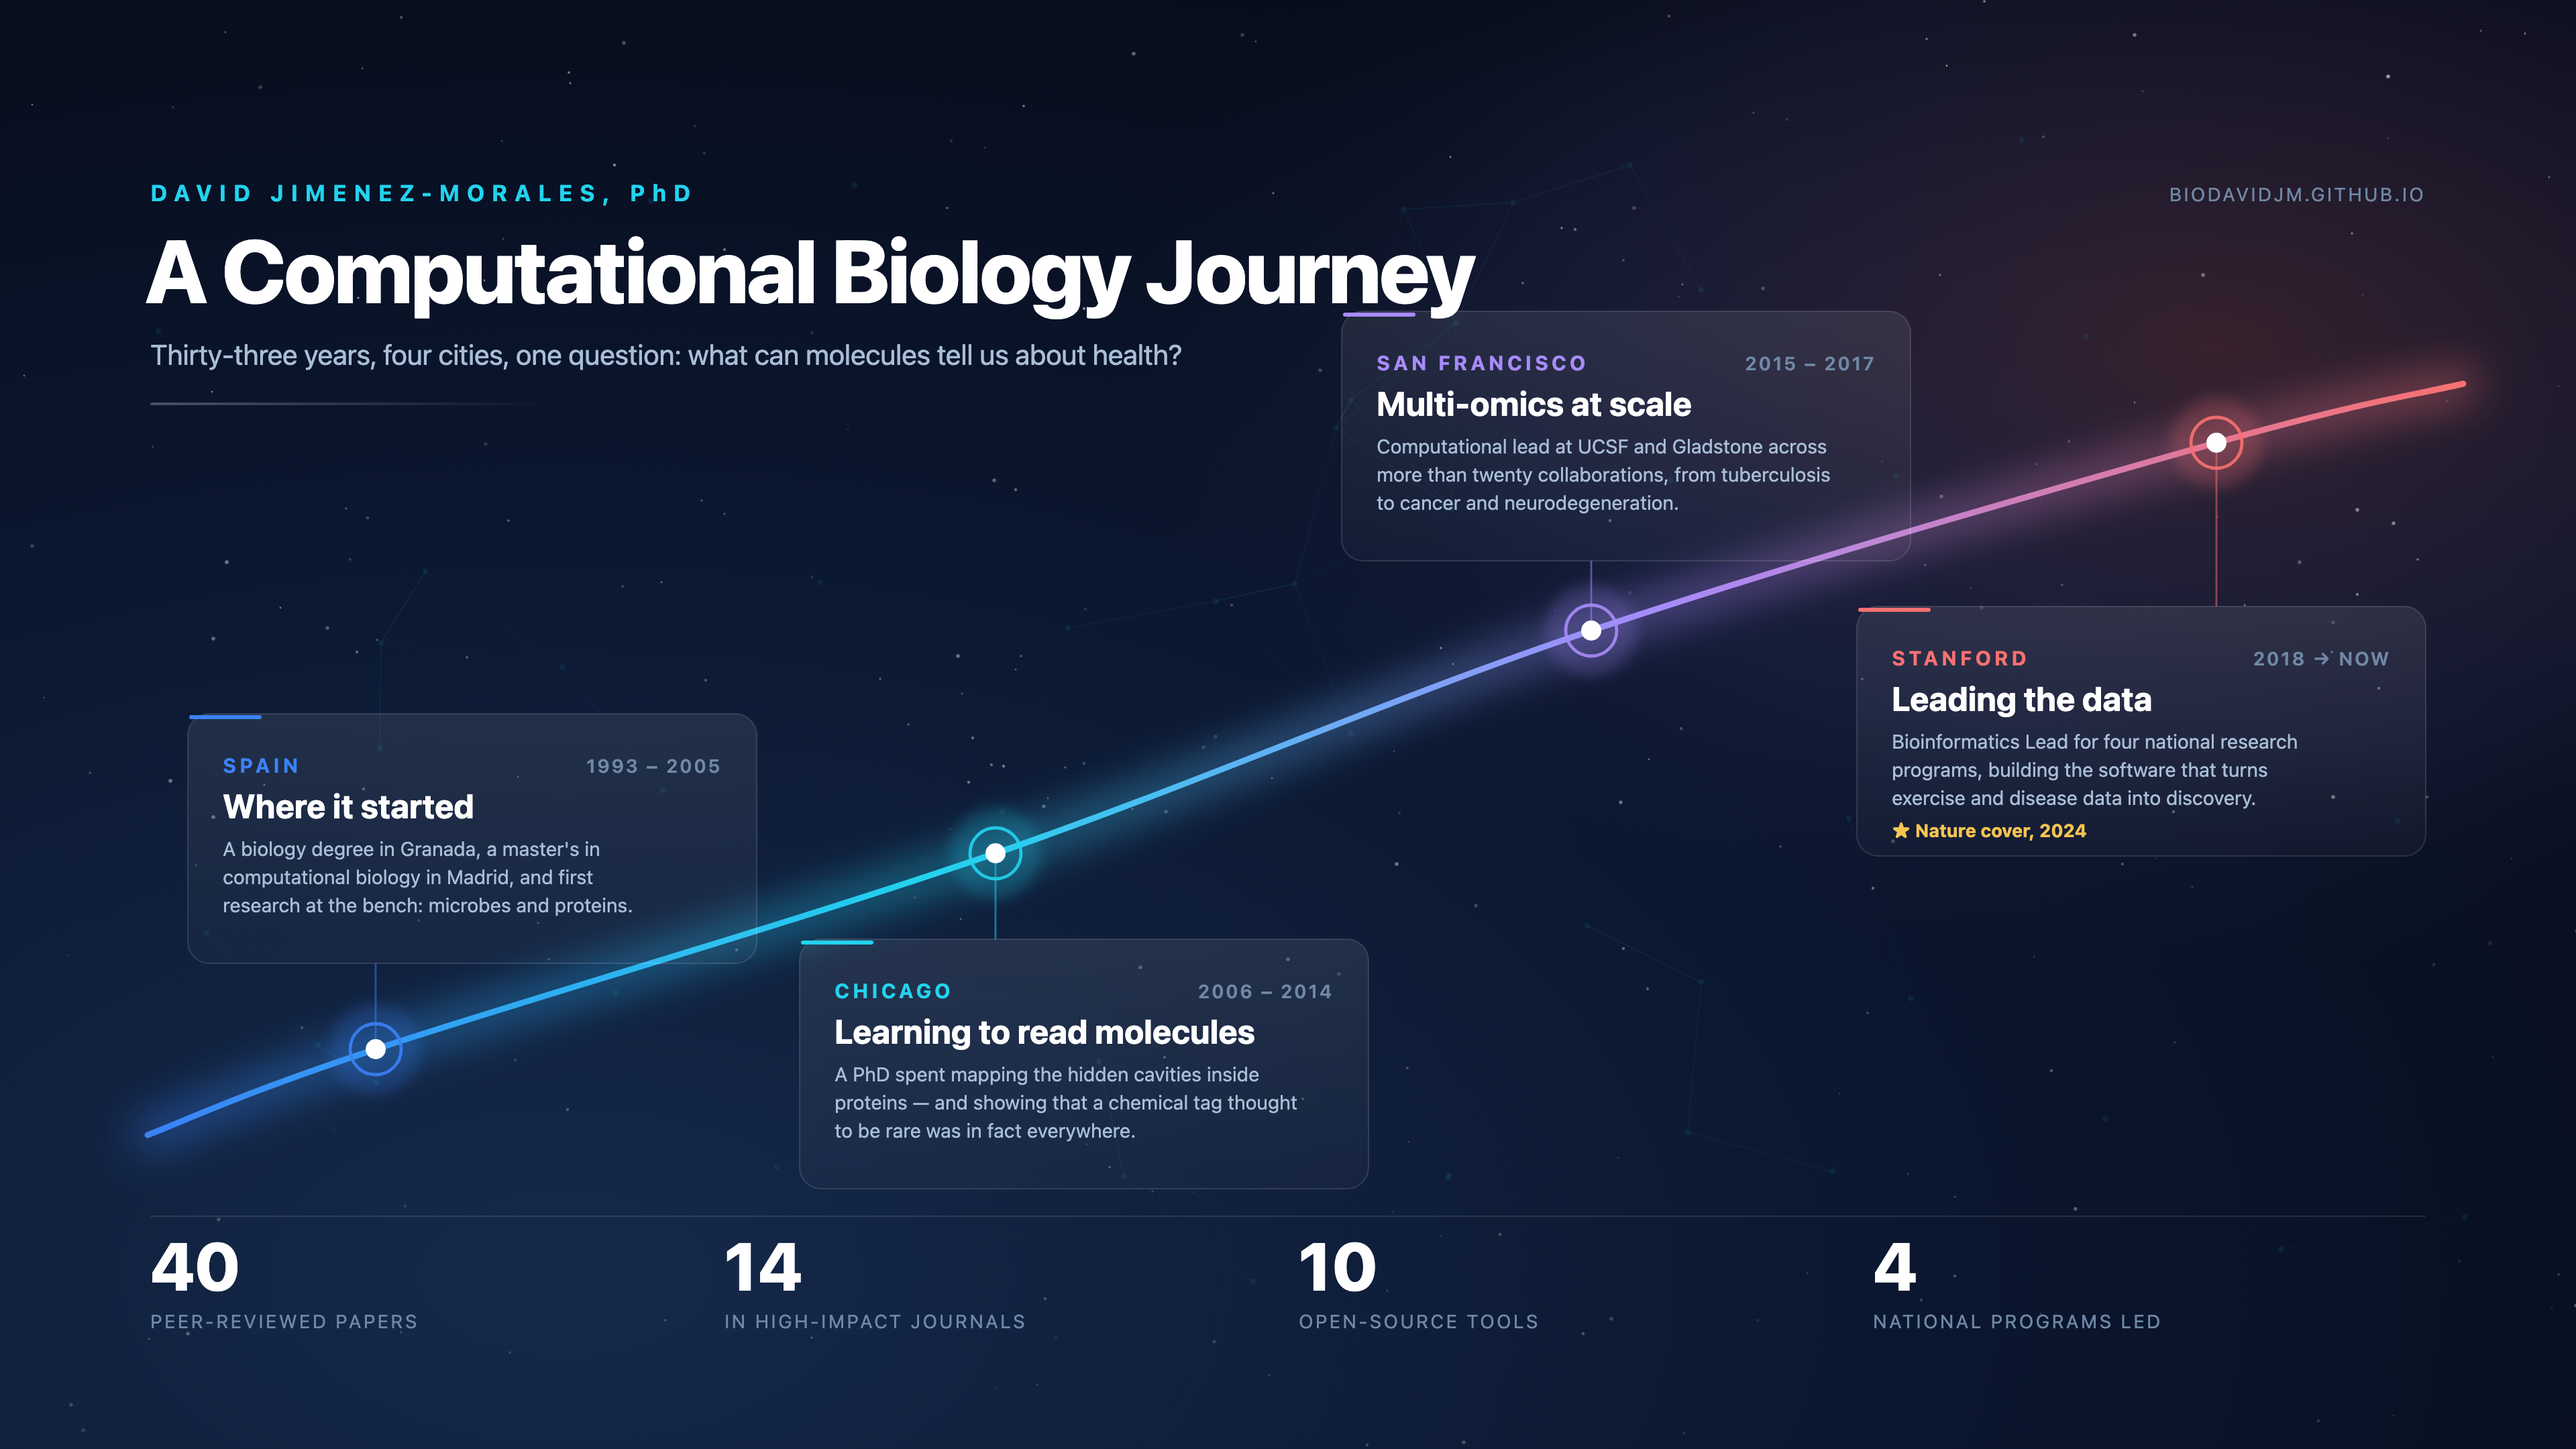
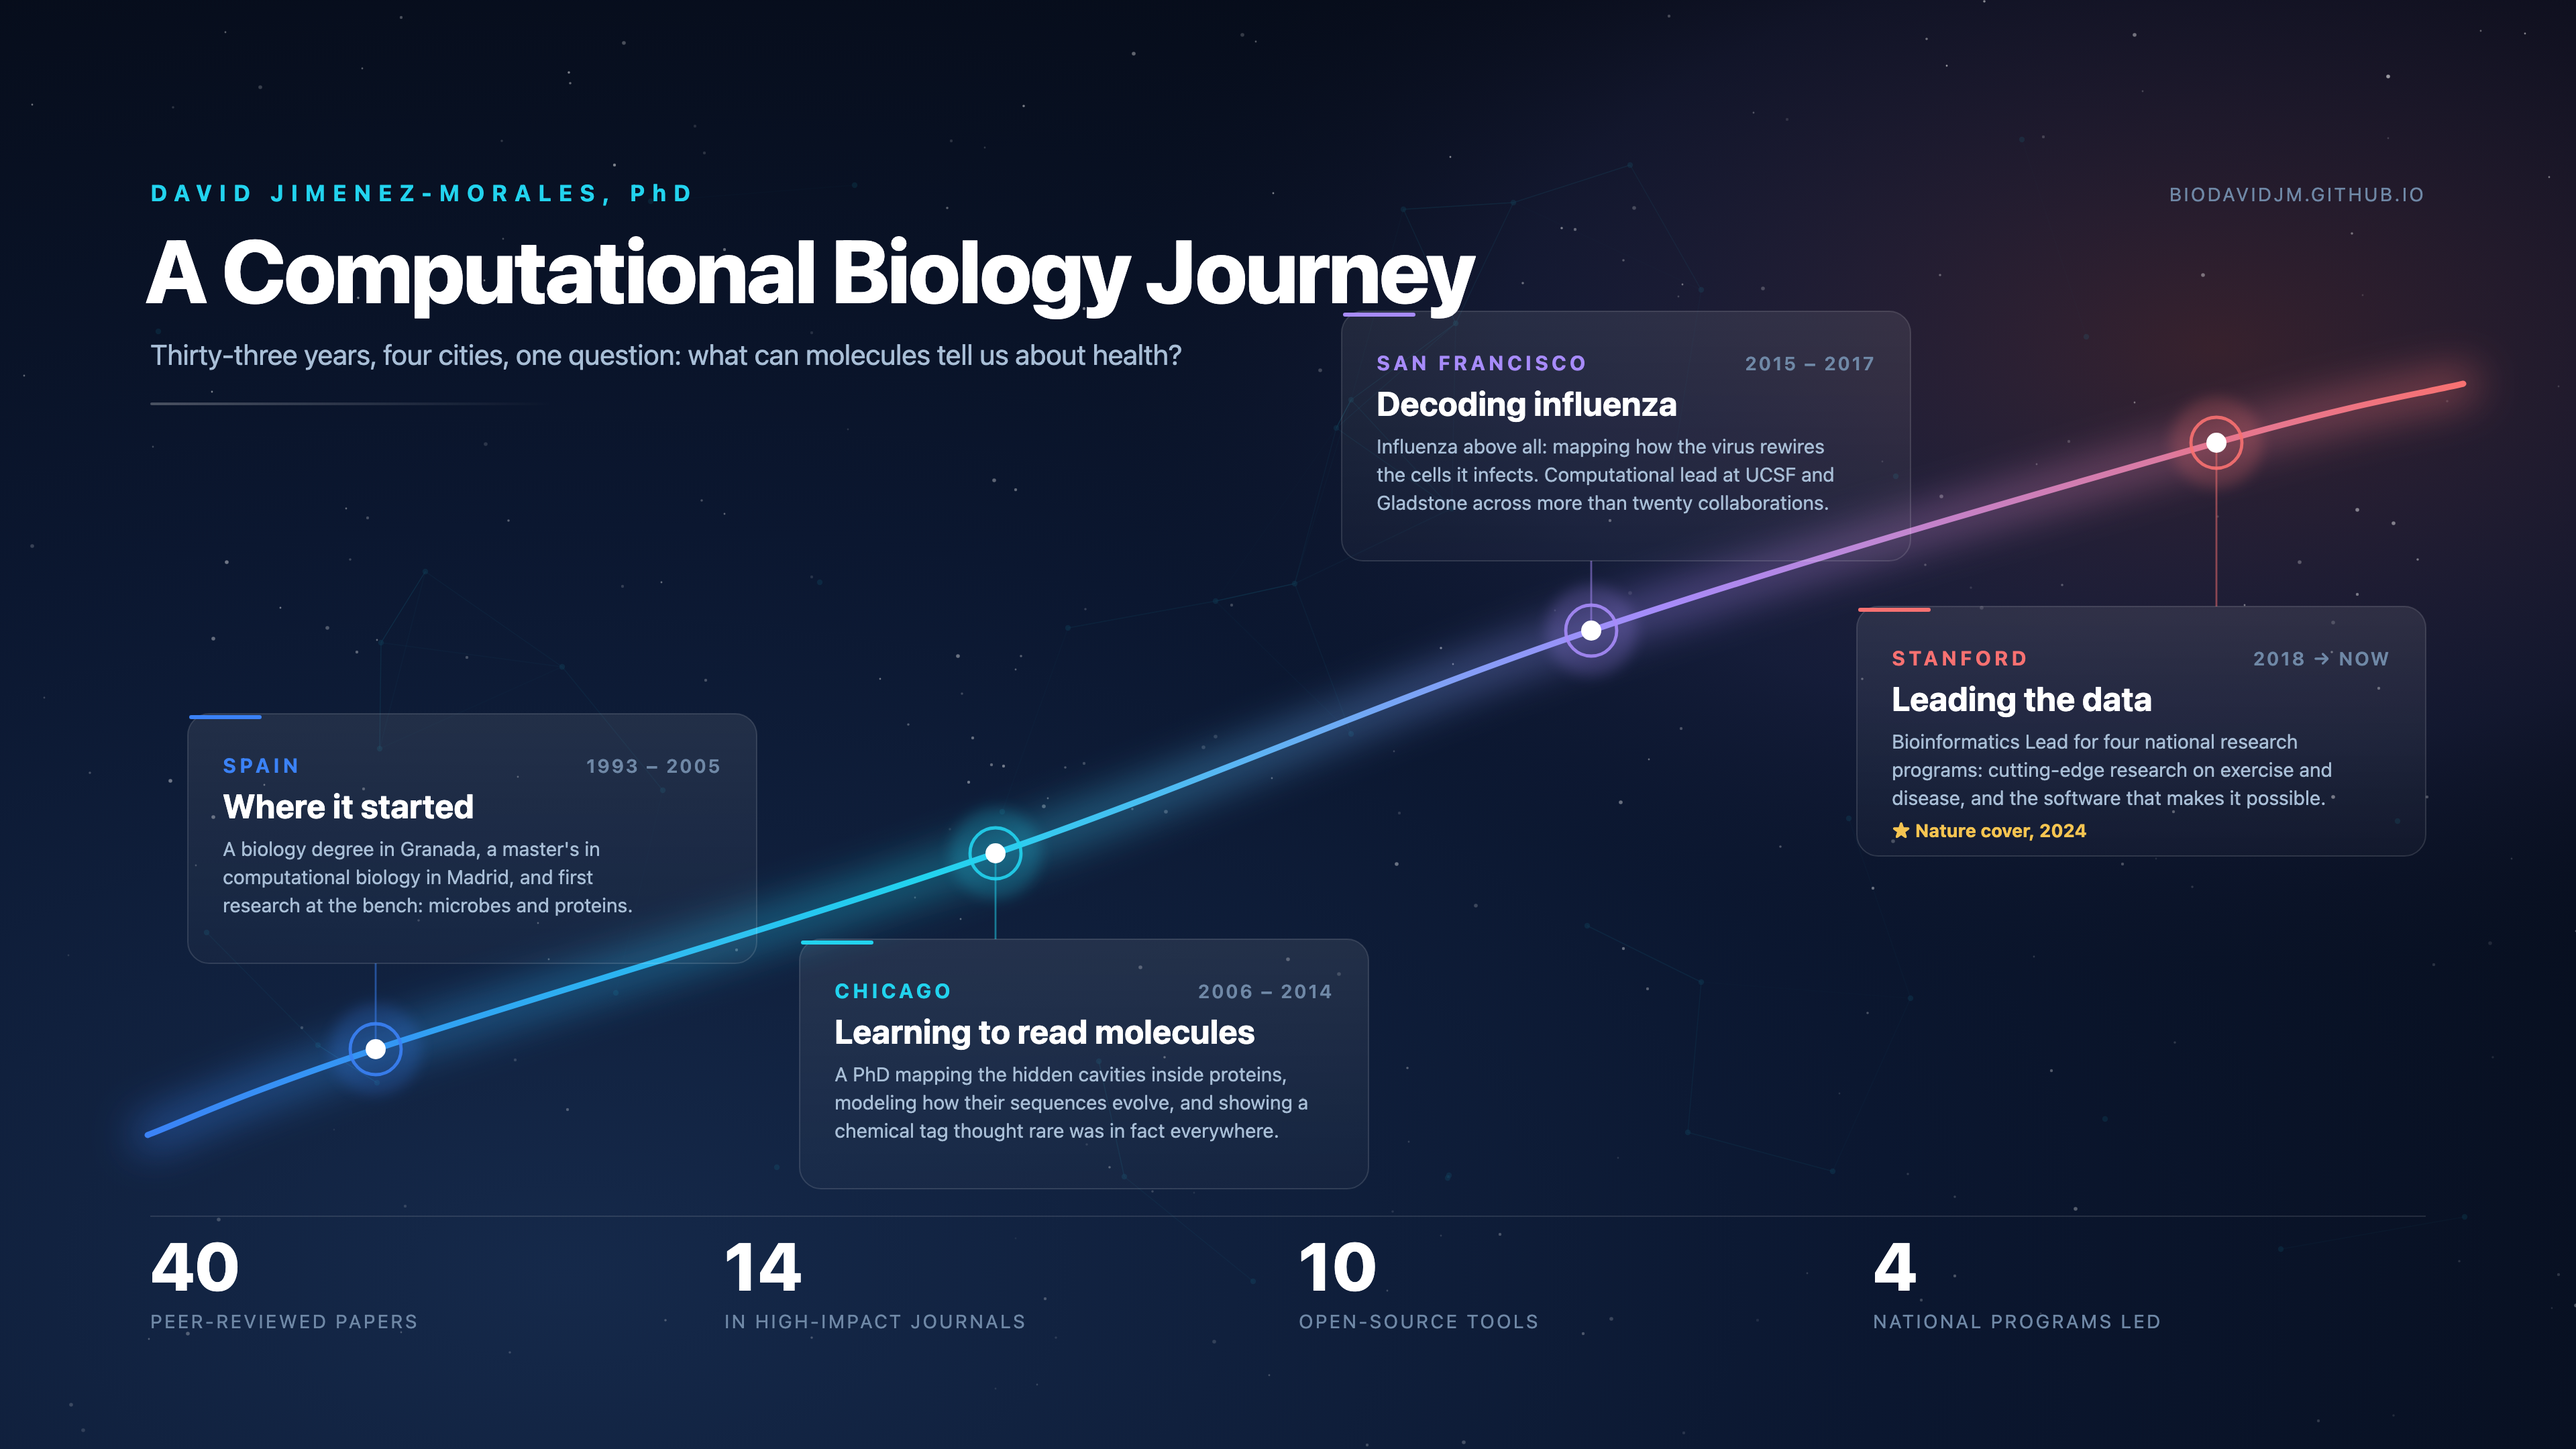
Update career journey gallery and storytelling
Refines the career journey narrative in the SVG (Chicago, San Francisco, and current role copy), updates the exported PNG asset, and adjusts gallery ordering so the career-journey visual appears first. Also adds a dedicated links-section entry for the multi-omics AI animation with a direct YouTube button and attribution.

Changed region(s): [[0.5312, 0.2481, 0.7188, 0.3722], [0.3438, 0.7134, 0.5, 0.8065], [0.75, 0.5273, 0.9062, 0.5583]]

diff --git a/index.html b/index.html
@@ -256,6 +256,10 @@
             <div class="gallery-carousel">
                 <div class="gallery-container">
                     <div class="gallery-track">
+                        <div class="gallery-item" data-wide data-index="0">
+                            <img src="images/gallery/career-journey.svg"
+                                alt="A Computational Biology Journey: Spain → Chicago → San Francisco → Stanford, 1993–2026">
+                        </div>
                         <div class="gallery-item" data-video="rYlBlSSd2Qw" data-index="0">
                             <div class="gallery-video-frame">
                                 <iframe src="https://www.youtube-nocookie.com/embed/rYlBlSSd2Qw?rel=0"
@@ -268,10 +272,6 @@
                                 <p>My first animation created with AI — 2026. Best viewed at <strong>Settings →
                                         Quality → 1080p</strong>.</p>
                             </div>
-                        </div>
-                        <div class="gallery-item" data-wide data-index="0">
-                            <img src="images/gallery/career-journey.svg"
-                                alt="A Computational Biology Journey: Spain → Chicago → San Francisco → Stanford, 1993–2026">
                         </div>
                         <div class="gallery-item" data-index="2">
                             <img src="images/gallery/biodavidjm_EvolutionBetaBarrel.jpg"
@@ -992,6 +992,22 @@
                                         Watch on TODAY
                                     </a>
                                 </div>
+                            </div>
+                        </div>
+
+                        <div class="link-item">
+                            <div class="link-content">
+                                <h4>Multi-omics Analysis and Integration</h4>
+                                <p class="link-description">My first animation created with AI (2026), explaining how
+                                    multi-omic data come together. Best viewed at Settings → Quality → 1080p.</p>
+                                <div class="link-links">
+                                    <a href="https://www.youtube.com/watch?v=rYlBlSSd2Qw" target="_blank"
+                                        rel="noopener" class="link-btn">
+                                        <span class="link-icon">🎬</span>
+                                        Watch on YouTube
+                                    </a>
+                                </div>
+                                <p class="link-credit">Animation by me, with AI</p>
                             </div>
                         </div>
                     </div>
